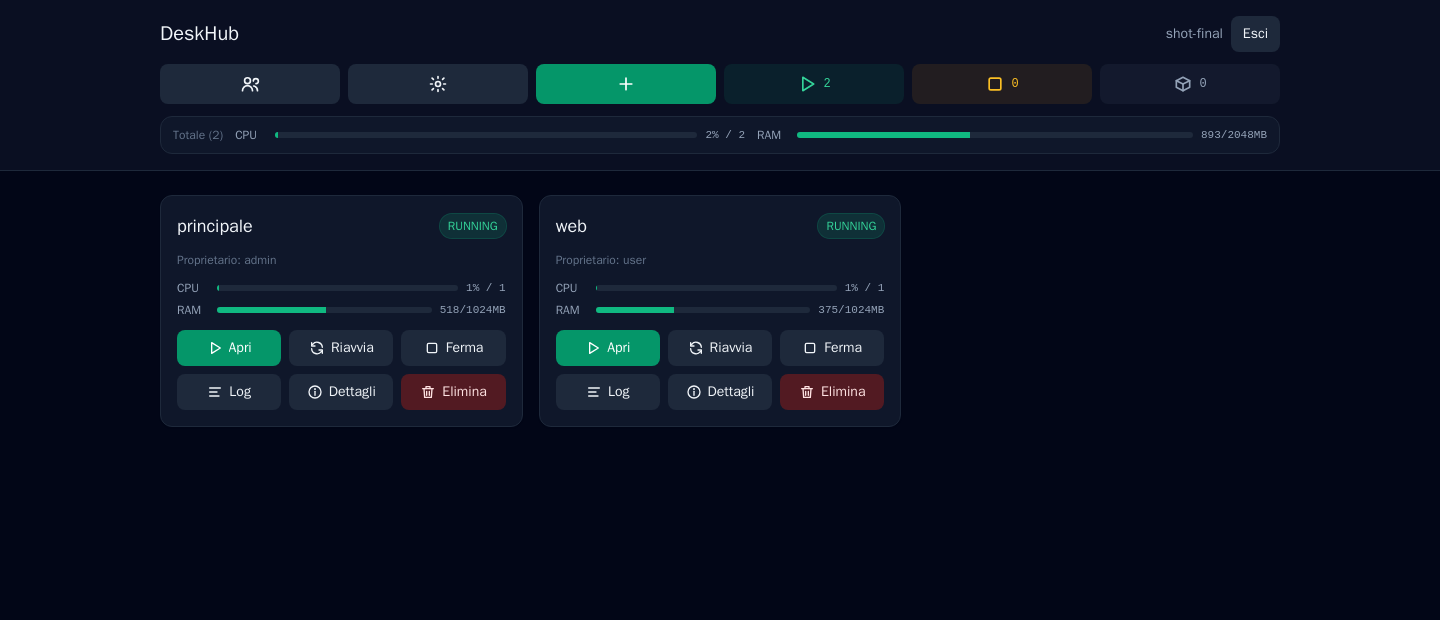
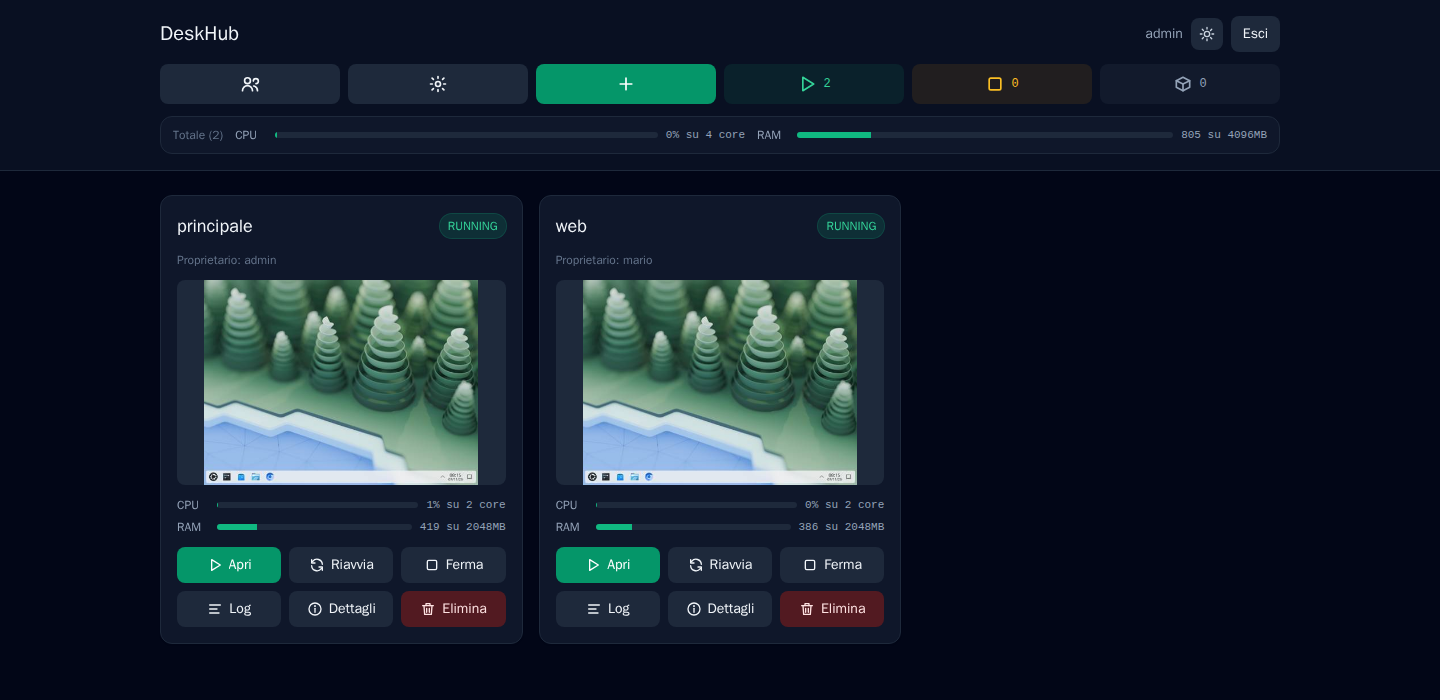
README: anteprime, assistenza dell'admin, gestione utenti, log e dettagli; screenshot aggiornati

diff --git a/README.md b/README.md
@@ -45,17 +45,22 @@ server, i dati restano tuoi, il costo è solo quello dell'hardware.
 - Nome libero per ogni desktop (es. "web", "ufficio")
 - Riutilizzo di configurazioni orfane (container eliminato con dati mantenuti sul disco)
 - Limiti RAM/CPU e timeout di spegnimento automatico sempre attivi per desktop, con default globale e override per singolo desktop, modificabili anche a container già avviato
-- Anteprima dal vivo dello schermo in ogni card (aggiornata ogni 10 secondi, nella forma reale dello schermo: verticale se il desktop è aperto da un telefono in verticale)
+- "Apri" porta il desktop in una nuova scheda del browser, alla risoluzione del dispositivo (anche da telefono)
+- Anteprima dal vivo dello schermo in ogni card, sempre attiva (vedi [Anteprime](#anteprime))
+- Assistenza: l'admin può aprire il desktop di un utente mentre lui lo sta usando — vedono la stessa schermata e comandano entrambi mouse e tastiera
+- Permessi di amministratore (sudo) nel desktop spenti di default, attivabili per singolo desktop
 
 **👥 Utenti e permessi**
 - Login gestito dalla webapp stessa: utenti, password, sessione via cookie
 - Due ruoli — **admin** (crea/elimina/log/dettagli, gestisce utenti, vede lo stato aggregato di tutti) e **utente** (avvia/ferma/riavvia/apre solo i propri desktop)
-- Un utente vede solo ciò che gli appartiene: mai desktop, conteggi o metriche altrui
+- Un utente vede solo ciò che gli appartiene: mai desktop, anteprime, conteggi o metriche altrui
+- Gestione utenti dall'admin (pulsante "Utenti"): creazione, reset password, eliminazione; ognuno può cambiare la propria password
 - Tema chiaro/scuro con switch, per admin e utenti: eredita il tema del dispositivo finché non lo si sceglie esplicitamente, poi ricorda la scelta
 
 **📊 Monitoraggio**
 - CPU e RAM in tempo reale per singolo desktop e in totale aggregato su tutta la flotta
 - Conteggio dal vivo di desktop in esecuzione, fermi e orfani
+- Per l'admin: log del container dal vivo ("Log") e scheda "Dettagli" con stato, container, cartella di configurazione, rete, limiti e sudo del desktop
 
 **🔒 Sicurezza e privacy**
 - Ogni desktop isolato su una rete Docker sua: da un desktop non si raggiungono gli altri desktop né il manager
@@ -155,10 +160,12 @@ se serve) e ne assegna la proprietà all'utente che lancia lo script.
 
 Dalla dashboard admin, "+ Nuovo desktop": scegli il proprietario, dai un
 nome al desktop (diventa anche il nome che vedrà l'utente sulla sua card) ed
-eventualmente un limite RAM/CPU diverso dal default globale. L'identificativo
+eventualmente un limite RAM/CPU o uno spegnimento automatico diversi dal
+default globale. L'identificativo
 interno e la cartella di configurazione diventano `<proprietario>-<nome>`
 (es. `mario-web`), con un suffisso numerico in caso di doppioni
-(`mario-web-2`, ...).
+(`mario-web-2`, ...). Sudo nel desktop segue il default delle impostazioni
+(⚙) e si cambia poi da "Dettagli".
 
 </details>
 
@@ -183,7 +190,7 @@ interno e la cartella di configurazione diventano `<proprietario>-<nome>`
   (crea/elimina/vede i log e le info di ogni desktop, gestisce gli utenti,
   vede i conteggi RUN/STOP/ORPH e l'uso CPU/RAM aggregato di tutti i desktop
   di tutti gli utenti) e **utente** (vede e opera solo sui desktop assegnati
-  a lui — avvia, ferma, riavvia, apre — niente creazione, eliminazione, log,
+  a lui — avvia, ferma, riavvia, apre, ne vede le anteprime — niente creazione, eliminazione, log,
   né i conteggi/uso complessivi, che riguardano desktop che potrebbe non
   aver mai visto).
 - **Immagine desktop**: Ubuntu + KDE Plasma via
@@ -236,7 +243,13 @@ interno e la cartella di configurazione diventano `<proprietario>-<nome>`
   toglie quello che può aver già fatto da root nel suo container: per
   ripartire puliti si elimina il desktop mantenendo la configurazione e lo
   si ricrea riusandola.
-- **Anteprime.** La miniatura la fa il desktop stesso con la cattura di
+- **Anteprime.** <a id="anteprime"></a>Ogni card mostra lo schermo del
+  desktop acceso, aggiornato ogni 10 secondi. L'anteprima ha la forma reale
+  dello schermo, che segue il dispositivo da cui il desktop è aperto
+  (verticale da un telefono in verticale): sta per intero nel riquadro, e lo
+  spazio che avanza resta grigio. È solo da guardare: il desktop si apre col
+  pulsante "Apri". Non si può spegnere. Quando la scheda del manager non è in
+  primo piano le anteprime si fermano. La miniatura la fa il desktop stesso con la cattura di
   pixelflux (il motore di Selkies, variabile `PIXELFLUX_CU`), e il manager
   la prende con `docker exec`, non dalla rete. Quel servizio (porta 5000 nel
   container) permette anche di comandare mouse e tastiera: lo raggiungono
